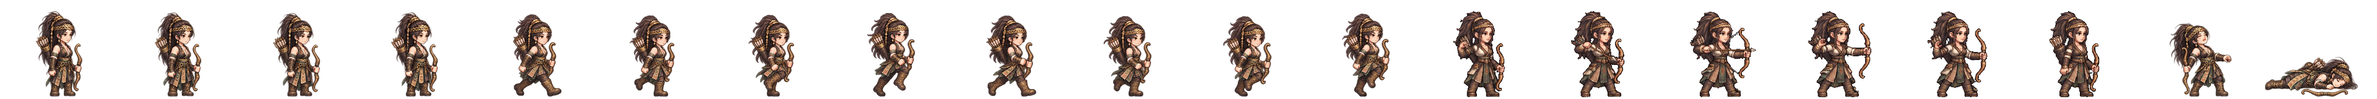
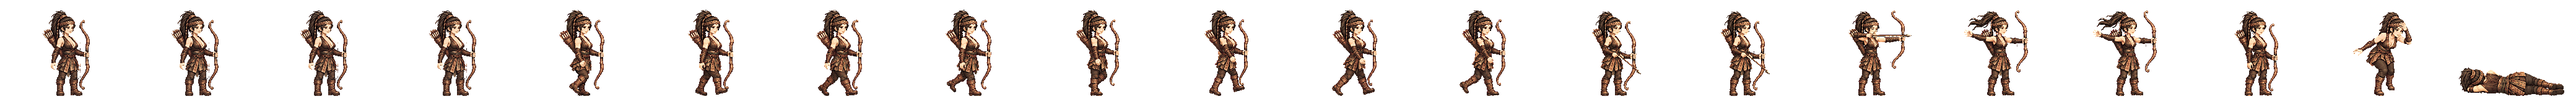
백제 매나 새 전투 띠를 게임에 넣음(서기·걷기·활 쏘기 네 칸·쓰러짐·머리띠 매만지기)
띠 검사 합격 · 활 끝 칸 키 137 ↔ 서기 138 · 당김 칸 시위가 거의 안 보이는 흠

Claude-Session: https://claude.ai/code/session_01TRiuN7s6aDfSnaHxrkctmU

Changed region(s): [[0.2188, 0.125, 1.0, 1.0], [0.0, 0.125, 0.1875, 0.9688]]

diff --git a/src/realm/data/spritePx.ts b/src/realm/data/spritePx.ts
@@ -1,3 +1,3 @@
 /** public/realm/anim-px/manifest.json 의 사본 — tools/sprite-normalize.mjs 가 만든다 (손으로 고치지 말 것). 칸 [가로, 세로] · feet = 발 줄(칸 위에서 y) · bodyPx = 서 있는 몸 키 */
 import { expandManifest } from './sprite-manifest.ts'
-export const SPRITE_PX: Readonly<Record<string, { readonly cell: readonly [number, number]; readonly feet: number; readonly bodyPx: number; readonly kind: 'general' | 'soldier' | 'folk' | 'crowd'; readonly cells: number }>> = expandManifest<{ readonly cell: readonly [number, number]; readonly feet: number; readonly bodyPx: number; readonly kind: 'general' | 'soldier' | 'folk' | 'crowd'; readonly cells: number }>([{"cell":[166,128],"feet":126,"bodyPx":124,"kind":"soldier","cells":20},{"cell":[116,128],"feet":126,"bodyPx":117,"kind":"soldier","cells":20},{"cell":[127,128],"feet":126,"bodyPx":116,"kind":"soldier","cells":20},{"cell":[269,128],"feet":126,"bodyPx":126,"kind":"soldier","cells":20},{"cell":[503,128],"feet":126,"bodyPx":127,"kind":"soldier","cells":20},{"cell":[614,128],"feet":126,"bodyPx":126,"kind":"soldier","cells":20},{"cell":[200,160],"feet":156,"bodyPx":138,"kind":"general","cells":20},{"cell":[208,160],"feet":155,"bodyPx":138,"kind":"general","cells":20},{"cell":[208,160],"feet":154,"bodyPx":138,"kind":"general","cells":20},{"cell":[304,160],"feet":155,"bodyPx":135,"kind":"general","cells":20},{"cell":[224,160],"feet":156,"bodyPx":139,"kind":"general","cells":20},{"cell":[184,160],"feet":156,"bodyPx":138,"kind":"general","cells":20},{"cell":[208,160],"feet":154,"bodyPx":136,"kind":"general","cells":20},{"cell":[240,160],"feet":156,"bodyPx":138,"kind":"general","cells":20},{"cell":[232,160],"feet":156,"bodyPx":138,"kind":"general","cells":20},{"cell":[208,160],"feet":156,"bodyPx":138,"kind":"general","cells":20},{"cell":[168,160],"feet":156,"bodyPx":138,"kind":"general","cells":20},{"cell":[192,160],"feet":156,"bodyPx":138,"kind":"general","cells":20},{"cell":[168,160],"feet":156,"bodyPx":124,"kind":"general","cells":20},{"cell":[216,160],"feet":156,"bodyPx":130,"kind":"general","cells":20},{"cell":[200,160],"feet":156,"bodyPx":116,"kind":"general","cells":20},{"cell":[200,160],"feet":156,"bodyPx":135,"kind":"general","cells":20},{"cell":[280,160],"feet":156,"bodyPx":138,"kind":"general","cells":20},{"cell":[232,160],"feet":155,"bodyPx":138,"kind":"general","cells":20},{"cell":[232,160],"feet":156,"bodyPx":134,"kind":"general","cells":20},{"cell":[144,160],"feet":156,"bodyPx":70,"kind":"general","cells":20},{"cell":[208,160],"feet":156,"bodyPx":70,"kind":"general","cells":20},{"cell":[192,160],"feet":156,"bodyPx":70,"kind":"general","cells":20},{"cell":[240,160],"feet":155,"bodyPx":138,"kind":"general","cells":20},{"cell":[160,160],"feet":156,"bodyPx":135,"kind":"general","cells":20},{"cell":[192,160],"feet":156,"bodyPx":128,"kind":"general","cells":20},{"cell":[224,160],"feet":155,"bodyPx":138,"kind":"general","cells":20},{"cell":[232,160],"feet":156,"bodyPx":139,"kind":"general","cells":20},{"cell":[216,160],"feet":156,"bodyPx":138,"kind":"general","cells":20},{"cell":[208,160],"feet":156,"bodyPx":134,"kind":"general","cells":20},{"cell":[176,160],"feet":156,"bodyPx":130,"kind":"general","cells":20},{"cell":[248,160],"feet":156,"bodyPx":138,"kind":"general","cells":20},{"cell":[248,160],"feet":155,"bodyPx":138,"kind":"general","cells":20},{"cell":[192,160],"feet":155,"bodyPx":138,"kind":"general","cells":20},{"cell":[192,160],"feet":156,"bodyPx":124,"kind":"general","cells":20},{"cell":[208,160],"feet":154,"bodyPx":131,"kind":"general","cells":20},{"cell":[256,160],"feet":156,"bodyPx":138,"kind":"general","cells":20},{"cell":[232,160],"feet":156,"bodyPx":73,"kind":"general","cells":20},{"cell":[256,160],"feet":155,"bodyPx":138,"kind":"general","cells":20},{"cell":[264,160],"feet":156,"bodyPx":138,"kind":"general","cells":20},{"cell":[224,160],"feet":156,"bodyPx":138,"kind":"general","cells":20},{"cell":[224,160],"feet":156,"bodyPx":128,"kind":"general","cells":20},{"cell":[176,160],"feet":156,"bodyPx":129,"kind":"general","cells":20},{"cell":[208,160],"feet":154,"bodyPx":139,"kind":"general","cells":20},{"cell":[208,160],"feet":156,"bodyPx":132,"kind":"general","cells":20},{"cell":[216,160],"feet":155,"bodyPx":138,"kind":"general","cells":20},{"cell":[184,160],"feet":156,"bodyPx":122,"kind":"general","cells":20},{"cell":[176,160],"feet":156,"bodyPx":138,"kind":"general","cells":20},{"cell":[280,160],"feet":155,"bodyPx":133,"kind":"general","cells":20},{"cell":[176,160],"feet":156,"bodyPx":70,"kind":"general","cells":20},{"cell":[186,128],"feet":126,"bodyPx":127,"kind":"soldier","cells":20},{"cell":[298,128],"feet":126,"bodyPx":126,"kind":"soldier","cells":20},{"cell":[82,128],"feet":126,"bodyPx":114,"kind":"folk","cells":8},{"cell":[134,128],"feet":126,"bodyPx":119,"kind":"soldier","cells":20},{"cell":[380,128],"feet":126,"bodyPx":124,"kind":"soldier","cells":20},{"cell":[114,128],"feet":126,"bodyPx":115,"kind":"soldier","cells":20},{"cell":[122,128],"feet":126,"bodyPx":114,"kind":"soldier","cells":20},{"cell":[254,128],"feet":126,"bodyPx":128,"kind":"soldier","cells":20},{"cell":[438,128],"feet":126,"bodyPx":126,"kind":"soldier","cells":20},{"cell":[88,128],"feet":126,"bodyPx":113,"kind":"folk","cells":8},{"cell":[100,128],"feet":126,"bodyPx":115,"kind":"folk","cells":8},{"cell":[108,128],"feet":126,"bodyPx":115,"kind":"folk","cells":8},{"cell":[63,128],"feet":126,"bodyPx":113,"kind":"folk","cells":8},{"cell":[69,96],"feet":96,"bodyPx":96,"kind":"crowd","cells":1},{"cell":[54,96],"feet":96,"bodyPx":96,"kind":"crowd","cells":1},{"cell":[47,96],"feet":96,"bodyPx":96,"kind":"crowd","cells":1},{"cell":[49,96],"feet":96,"bodyPx":96,"kind":"crowd","cells":1},{"cell":[57,96],"feet":96,"bodyPx":96,"kind":"crowd","cells":1},{"cell":[55,96],"feet":96,"bodyPx":96,"kind":"crowd","cells":1},{"cell":[45,96],"feet":96,"bodyPx":96,"kind":"crowd","cells":1},{"cell":[53,96],"feet":96,"bodyPx":96,"kind":"crowd","cells":1},{"cell":[64,96],"feet":96,"bodyPx":96,"kind":"crowd","cells":1},{"cell":[184,160],"feet":156,"bodyPx":124,"kind":"general","cells":20},{"cell":[184,160],"feet":156,"bodyPx":134,"kind":"general","cells":20},{"cell":[224,160],"feet":156,"bodyPx":133,"kind":"general","cells":20},{"cell":[192,160],"feet":156,"bodyPx":135,"kind":"general","cells":20},{"cell":[184,160],"feet":156,"bodyPx":137,"kind":"general","cells":20},{"cell":[216,160],"feet":156,"bodyPx":134,"kind":"general","cells":20},{"cell":[216,160],"feet":156,"bodyPx":132,"kind":"general","cells":20},{"cell":[288,160],"feet":156,"bodyPx":138,"kind":"general","cells":20},{"cell":[192,160],"feet":156,"bodyPx":118,"kind":"general","cells":20},{"cell":[192,160],"feet":156,"bodyPx":134,"kind":"general","cells":20},{"cell":[192,160],"feet":157,"bodyPx":139,"kind":"general","cells":20},{"cell":[184,160],"feet":156,"bodyPx":128,"kind":"general","cells":20},{"cell":[240,160],"feet":156,"bodyPx":128,"kind":"general","cells":20},{"cell":[184,160],"feet":156,"bodyPx":132,"kind":"general","cells":20},{"cell":[208,160],"feet":156,"bodyPx":123,"kind":"general","cells":20},{"cell":[208,160],"feet":154,"bodyPx":137,"kind":"general","cells":20},{"cell":[176,160],"feet":156,"bodyPx":116,"kind":"general","cells":20},{"cell":[272,160],"feet":156,"bodyPx":138,"kind":"general","cells":20},{"cell":[176,160],"feet":156,"bodyPx":122,"kind":"general","cells":20},{"cell":[232,160],"feet":156,"bodyPx":127,"kind":"general","cells":20},{"cell":[176,160],"feet":156,"bodyPx":137,"kind":"general","cells":20},{"cell":[184,160],"feet":156,"bodyPx":133,"kind":"general","cells":20}],[["axe",0],["bandit-chief",1],["bandit-club",2],["boat",3],["bow",4],["crossbow",5],["gen-adogan",6],["gen-alpyeong",7],["gen-ara",8],["gen-areum",8],["gen-aryeong",9],["gen-bakdal",6],["gen-baram",10],["gen-bdanbi",11],["gen-beom",12],["gen-beombal",11],["gen-beomi",13],["gen-bira",14],["gen-biryu",15],["gen-budeul",16],["gen-byeol",17],["gen-daemusin",18],["gen-daeso",19],["gen-dallae2",11],["gen-dalli",11],["gen-damul",20],["gen-danbi",15],["gen-dangung",17],["gen-darae",21],["gen-dokmudeom",7],["gen-duman",22],["gen-eomni",23],["gen-eureum",24],["gen-g-bow",25],["gen-g-spear",26],["gen-g-sword",27],["gen-gaennae",6],["gen-gamsil",28],["gen-gaon",29],["gen-geota",15],["gen-geumbawi",11],["gen-geumha",30],["gen-goeun",15],["gen-gom",31],["gen-gomok",15],["gen-gureum",28],["gen-guryema",17],["gen-gwaeyu",14],["gen-haebi",8],["gen-haedal",6],["gen-haesol",32],["gen-halla",7],["gen-heo",8],["gen-hneoul",11],["gen-hogong",33],["gen-hojin",15],["gen-horselord",34],["gen-hwalmi",35],["gen-hyeokgeose",17],["gen-hyeopbo",6],["gen-irang",15],["gen-jibaekho",36],["gen-jinha",37],["gen-jita",38],["gen-jumong",39],["gen-keundol",7],["gen-maehwa",40],["gen-maenun",17],["gen-malgalgi",41],["gen-mari",13],["gen-maro",36],["gen-maryeo",15],["gen-mdallae",32],["gen-mir",6],["gen-mount",42],["gen-mulbeom",43],["gen-mulsae",33],["gen-musoe",33],["gen-noeul",8],["gen-nuri",44],["gen-ocheongan",45],["gen-odi",8],["gen-odogan",6],["gen-ogan",17],["gen-oi",46],["gen-olddaeso",24],["gen-onjo",47],["gen-pidogan",15],["gen-sagong",48],["gen-sdallae",6],["gen-sincheongan",33],["gen-singwigan",33],["gen-sinneoul",8],["gen-sobeol",23],["gen-soebi",6],["gen-soebo",49],["gen-soenun",36],["gen-sogeumbi",50],["gen-songbi",45],["gen-songyang",51],["gen-sori",52],["gen-soseono",53],["gen-suro",17],["gen-tahae",6],["gen-tneoul",8],["gen-w-bow",25],["gen-w-spear",54],["gen-waechief",15],["gen-wan",33],["gen-yeodogan",15],["gen-yucheongan",15],["gen-yusugan",36],["horse",55],["marine",56],["migrant",57],["militia",58],["pike",59],["pirate-captain",60],["pirate-sword",61],["shield",62],["spear",63],["villager-builder",64],["villager-farmer",65],["villager-porter",66],["villager-woman",67],["crowd-b1",68],["crowd-b2",69],["crowd-b3",70],["crowd-b4",71],["crowd-b5",72],["crowd-b6",73],["crowd-f1",68],["crowd-f2",73],["crowd-f3",74],["crowd-f4",75],["crowd-f5",68],["crowd-f6",76],["gen-dalbit",15],["gen-base-g-07-drunk-warrior",17],["gen-base-g-40-anya-adan",15],["gen-base-w-13-young-archer",8],["gen-base-g-03-sea-trader",13],["gen-base-w-10-pirate-captain",48],["gen-base-w-64-miri-dallae",48],["gen-base-g-41-goja-bau",13],["gen-base-g-42-dokro-garam",44],["gen-base-g-09-farmer-conscript",33],["gen-base-w-02-goguryeo-lady",33],["gen-base-w-17-mahan-pearl-diver",8],["gen-base-g-17-saro-isageum",49],["gen-base-g-18-daegaya-king",77],["gen-base-g-35-dabeol-dalgu",15],["gen-base-g-19-sabeol-veteran",33],["gen-base-w-23-usisan-whale-queen",8],["gen-base-g-36-gammun-gamdol",45],["gen-base-g-20-samul-sea-lord",41],["gen-base-g-37-eumjeup-jeup",11],["gen-base-g-38-chopal-palmae",17],["gen-base-w-75-daegaya-soemoe",17],["gen-base-g-45-dabeol-deulgae",11],["gen-base-g-04-jinhan-giant",15],["gen-base-g-08-veteran",15],["gen-base-w-18-jinhan-salt-widow",15],["gen-base-w-12-court-dancer",78],["gen-base-w-83-gyeonji-beodeul",79],["gen-base-w-05-baekje-queen",80],["gen-base-w-21-baekje-court-dancer",11],["gen-base-g-01-master-smith",81],["gen-base-g-93-jomun-solgae",35],["gen-base-g-57-bihwa-neup",13],["gen-base-w-72-eumjeup-beol",8],["gen-base-w-102-garak-dana",48],["gen-base-g-68-baekje-onnuri",15],["gen-base-w-27-mokji-jinha",6],["gen-base-g-22-ungcheon-gomnae",6],["gen-base-g-23-sangdang-soedal",15],["gen-base-g-24-wansan-onsan",6],["gen-base-g-25-balla-keunmoe",33],["gen-base-g-61-heomcheuk-bawi",33],["gen-base-g-88-wander-soeul",45],["gen-base-w-14-feast-spy",6],["gen-base-g-12-silla-youth",82],["gen-base-w-08-mahan-warrior",8],["gen-base-g-62-beonye-hanul",13],["gen-base-g-63-heomcheuk-beogeum",15],["gen-base-g-84-wander-seoneul",15],["gen-base-w-50-siljik-mulga",33],["gen-base-g-46-uga-nureongso",33],["gen-base-w-80-usan-gangchi",13],["gen-base-g-47-guga-sanyanggae",33],["gen-base-w-76-gampyeong-baetsagong",8],["gen-base-g-05-mahan-chieftain",83],["gen-base-g-58-usan-uhae",15],["gen-base-g-27-maek-maekdol",15],["gen-base-w-53-hwanna-gabi",16],["gen-base-w-29-golpo-janmul",36],["gen-base-g-53-baekje-haeru",6],["gen-base-w-71-yeonna-neoul",13],["gen-base-w-79-yangmaek-solmae",33],["gen-base-w-34-chopal-deulme",8],["gen-base-g-44-maga-malgup",84],["gen-base-w-31-dabeol-dalbit",48],["gen-base-g-51-biryuna-mulgyeol",45],["gen-base-g-48-gwanna-musoe",15],["gen-base-g-32-uga-sodu",14],["gen-base-g-49-goguryeo-sona",85],["gen-base-g-30-gwanna-soemoe",45],["gen-base-g-52-tamna-oreum",11],["gen-base-g-29-yeonna-myeongsol",39],["gen-base-w-56-dongokjeo-sogeum",86],["gen-base-g-54-mokji-mahan",14],["gen-base-g-33-jeoga-metdol",17],["gen-base-w-36-baekje-maena",17],["gen-base-w-38-sangdang-bulmae",6],["gen-base-w-39-gosaburi-galmae",87],["gen-base-w-40-mujin-munui",49],["gen-base-w-41-hwanna-beodeul",88],["gen-base-w-43-uga-nuri",41],["gen-base-w-45-tamna-oreumbi",11],["gen-base-g-60-golbeol-golgae",11],["gen-base-g-61-apdok-ap",33],["gen-base-g-62-gammun-gamnamu",6],["gen-base-g-63-chopal-yeoul",36],["gen-base-g-64-michuhol-sogeumkkun",13],["gen-base-g-65-sangdang-soemangchi",45],["gen-base-g-66-geonma-malbalgup",89],["gen-base-g-67-gosaburi-buri",90],["gen-base-g-68-mujin-bitgoeul",11],["gen-base-g-69-goryong-yong",45],["gen-base-g-70-siljik-pado",13],["gen-base-w-81-byeokjin-byeolbit",14],["gen-base-w-46-geonma-maru",36],["gen-base-w-48-mujin-mudeung",13],["gen-base-g-26-gampyeong-gaetbeol",14],["gen-base-g-60-eupcha-hangyeol",91],["gen-base-g-15-shaman-man",33],["gen-base-g-85-wander-ure",36],["gen-base-g-43-hwanna-amnok",15],["gen-base-g-50-bullae-gwaha",80],["gen-base-g-55-saro-bakdal",15],["gen-base-g-56-haseulla-gwahama",6],["gen-base-w-06-buyeo-huntress",92],["gen-base-w-22-dongye-tiger-huntress",8],["gen-base-w-25-bihwa-priestess",33],["gen-base-w-24-apdok-queen",11],["gen-base-w-61-iseo-sinae",15],["gen-base-w-26-iseo-tomboy-general",8],["gen-base-g-59-yangmaek-maekson",93],["gen-aw1-haebi",45],["gen-aw1-soseono",94],["gen-aw1-gamsil",11],["gen-aw1-mir",52],["gen-aw1-dangung",6],["gen-aw1-ara",45],["gen-aw1-jumong",95],["gen-aw1-onjo",96],["gen-aw1-base-w-83-gyeonji-beodeul",17],["gen-aw1-heo",44],["gen-aw1-base-g-38-chopal-palmae",6],["gen-aw1-base-w-25-bihwa-priestess",78],["gen-aw1-sori",16],["gen-aw1-gomok",6],["gen-aw1-irang",17],["gen-aw1-budeul",16],["gen-aw1-gom",13],["gen-aw1-sdallae",6],["gen-aw1-base-w-13-young-archer",6],["gen-aw1-base-w-36-baekje-maena",97],["gen-aw1-base-g-09-farmer-conscript",44],["gen-aw1-base-w-02-goguryeo-lady",98],["gen-aw1-haedal",11],["gen-aw1-hogong",6],["gen-aw1-maehwa",52],["gen-aw1-base-w-06-buyeo-huntress",14],["gen-aw1-base-w-08-mahan-warrior",45],["gen-aw1-base-w-29-golpo-janmul",45],["gen-aw1-base-w-31-dabeol-dalbit",17],["gen-aw1-base-w-38-sangdang-bulmae",16],["gen-aw1-bira",33],["gen-aw1-base-w-53-hwanna-gabi",16],["gen-aw1-base-w-56-dongokjeo-sogeum",52],["gen-aw1-base-w-72-eumjeup-beol",17],["gen-aw1-bdanbi",16],["gen-aw1-beom",11],["gen-aw1-beombal",11],["gen-aw1-byeol",17],["gen-aw1-dalli",52],["gen-aw1-malgalgi",36],["gen-aw1-sincheongan",33]])
+export const SPRITE_PX: Readonly<Record<string, { readonly cell: readonly [number, number]; readonly feet: number; readonly bodyPx: number; readonly kind: 'general' | 'soldier' | 'folk' | 'crowd'; readonly cells: number }>> = expandManifest<{ readonly cell: readonly [number, number]; readonly feet: number; readonly bodyPx: number; readonly kind: 'general' | 'soldier' | 'folk' | 'crowd'; readonly cells: number }>([{"cell":[166,128],"feet":126,"bodyPx":124,"kind":"soldier","cells":20},{"cell":[116,128],"feet":126,"bodyPx":117,"kind":"soldier","cells":20},{"cell":[127,128],"feet":126,"bodyPx":116,"kind":"soldier","cells":20},{"cell":[269,128],"feet":126,"bodyPx":126,"kind":"soldier","cells":20},{"cell":[503,128],"feet":126,"bodyPx":127,"kind":"soldier","cells":20},{"cell":[614,128],"feet":126,"bodyPx":126,"kind":"soldier","cells":20},{"cell":[200,160],"feet":156,"bodyPx":138,"kind":"general","cells":20},{"cell":[208,160],"feet":155,"bodyPx":138,"kind":"general","cells":20},{"cell":[208,160],"feet":154,"bodyPx":138,"kind":"general","cells":20},{"cell":[304,160],"feet":155,"bodyPx":135,"kind":"general","cells":20},{"cell":[224,160],"feet":156,"bodyPx":139,"kind":"general","cells":20},{"cell":[184,160],"feet":156,"bodyPx":138,"kind":"general","cells":20},{"cell":[208,160],"feet":154,"bodyPx":136,"kind":"general","cells":20},{"cell":[240,160],"feet":156,"bodyPx":138,"kind":"general","cells":20},{"cell":[232,160],"feet":156,"bodyPx":138,"kind":"general","cells":20},{"cell":[208,160],"feet":156,"bodyPx":138,"kind":"general","cells":20},{"cell":[168,160],"feet":156,"bodyPx":138,"kind":"general","cells":20},{"cell":[192,160],"feet":156,"bodyPx":138,"kind":"general","cells":20},{"cell":[168,160],"feet":156,"bodyPx":124,"kind":"general","cells":20},{"cell":[216,160],"feet":156,"bodyPx":130,"kind":"general","cells":20},{"cell":[200,160],"feet":156,"bodyPx":116,"kind":"general","cells":20},{"cell":[200,160],"feet":156,"bodyPx":135,"kind":"general","cells":20},{"cell":[280,160],"feet":156,"bodyPx":138,"kind":"general","cells":20},{"cell":[232,160],"feet":155,"bodyPx":138,"kind":"general","cells":20},{"cell":[232,160],"feet":156,"bodyPx":134,"kind":"general","cells":20},{"cell":[144,160],"feet":156,"bodyPx":70,"kind":"general","cells":20},{"cell":[208,160],"feet":156,"bodyPx":70,"kind":"general","cells":20},{"cell":[192,160],"feet":156,"bodyPx":70,"kind":"general","cells":20},{"cell":[240,160],"feet":155,"bodyPx":138,"kind":"general","cells":20},{"cell":[160,160],"feet":156,"bodyPx":135,"kind":"general","cells":20},{"cell":[192,160],"feet":156,"bodyPx":128,"kind":"general","cells":20},{"cell":[224,160],"feet":155,"bodyPx":138,"kind":"general","cells":20},{"cell":[232,160],"feet":156,"bodyPx":139,"kind":"general","cells":20},{"cell":[216,160],"feet":156,"bodyPx":138,"kind":"general","cells":20},{"cell":[208,160],"feet":156,"bodyPx":134,"kind":"general","cells":20},{"cell":[176,160],"feet":156,"bodyPx":130,"kind":"general","cells":20},{"cell":[248,160],"feet":156,"bodyPx":138,"kind":"general","cells":20},{"cell":[248,160],"feet":155,"bodyPx":138,"kind":"general","cells":20},{"cell":[192,160],"feet":155,"bodyPx":138,"kind":"general","cells":20},{"cell":[192,160],"feet":156,"bodyPx":124,"kind":"general","cells":20},{"cell":[208,160],"feet":154,"bodyPx":131,"kind":"general","cells":20},{"cell":[256,160],"feet":156,"bodyPx":138,"kind":"general","cells":20},{"cell":[232,160],"feet":156,"bodyPx":73,"kind":"general","cells":20},{"cell":[256,160],"feet":155,"bodyPx":138,"kind":"general","cells":20},{"cell":[264,160],"feet":156,"bodyPx":138,"kind":"general","cells":20},{"cell":[224,160],"feet":156,"bodyPx":138,"kind":"general","cells":20},{"cell":[224,160],"feet":156,"bodyPx":128,"kind":"general","cells":20},{"cell":[176,160],"feet":156,"bodyPx":129,"kind":"general","cells":20},{"cell":[208,160],"feet":154,"bodyPx":139,"kind":"general","cells":20},{"cell":[208,160],"feet":156,"bodyPx":132,"kind":"general","cells":20},{"cell":[216,160],"feet":155,"bodyPx":138,"kind":"general","cells":20},{"cell":[184,160],"feet":156,"bodyPx":122,"kind":"general","cells":20},{"cell":[176,160],"feet":156,"bodyPx":138,"kind":"general","cells":20},{"cell":[280,160],"feet":155,"bodyPx":133,"kind":"general","cells":20},{"cell":[176,160],"feet":156,"bodyPx":70,"kind":"general","cells":20},{"cell":[186,128],"feet":126,"bodyPx":127,"kind":"soldier","cells":20},{"cell":[298,128],"feet":126,"bodyPx":126,"kind":"soldier","cells":20},{"cell":[82,128],"feet":126,"bodyPx":114,"kind":"folk","cells":8},{"cell":[134,128],"feet":126,"bodyPx":119,"kind":"soldier","cells":20},{"cell":[380,128],"feet":126,"bodyPx":124,"kind":"soldier","cells":20},{"cell":[114,128],"feet":126,"bodyPx":115,"kind":"soldier","cells":20},{"cell":[122,128],"feet":126,"bodyPx":114,"kind":"soldier","cells":20},{"cell":[254,128],"feet":126,"bodyPx":128,"kind":"soldier","cells":20},{"cell":[438,128],"feet":126,"bodyPx":126,"kind":"soldier","cells":20},{"cell":[88,128],"feet":126,"bodyPx":113,"kind":"folk","cells":8},{"cell":[100,128],"feet":126,"bodyPx":115,"kind":"folk","cells":8},{"cell":[108,128],"feet":126,"bodyPx":115,"kind":"folk","cells":8},{"cell":[63,128],"feet":126,"bodyPx":113,"kind":"folk","cells":8},{"cell":[69,96],"feet":96,"bodyPx":96,"kind":"crowd","cells":1},{"cell":[54,96],"feet":96,"bodyPx":96,"kind":"crowd","cells":1},{"cell":[47,96],"feet":96,"bodyPx":96,"kind":"crowd","cells":1},{"cell":[49,96],"feet":96,"bodyPx":96,"kind":"crowd","cells":1},{"cell":[57,96],"feet":96,"bodyPx":96,"kind":"crowd","cells":1},{"cell":[55,96],"feet":96,"bodyPx":96,"kind":"crowd","cells":1},{"cell":[45,96],"feet":96,"bodyPx":96,"kind":"crowd","cells":1},{"cell":[53,96],"feet":96,"bodyPx":96,"kind":"crowd","cells":1},{"cell":[64,96],"feet":96,"bodyPx":96,"kind":"crowd","cells":1},{"cell":[184,160],"feet":156,"bodyPx":124,"kind":"general","cells":20},{"cell":[184,160],"feet":156,"bodyPx":134,"kind":"general","cells":20},{"cell":[224,160],"feet":156,"bodyPx":133,"kind":"general","cells":20},{"cell":[192,160],"feet":156,"bodyPx":135,"kind":"general","cells":20},{"cell":[184,160],"feet":156,"bodyPx":137,"kind":"general","cells":20},{"cell":[216,160],"feet":156,"bodyPx":134,"kind":"general","cells":20},{"cell":[216,160],"feet":156,"bodyPx":132,"kind":"general","cells":20},{"cell":[288,160],"feet":156,"bodyPx":138,"kind":"general","cells":20},{"cell":[192,160],"feet":156,"bodyPx":118,"kind":"general","cells":20},{"cell":[192,160],"feet":156,"bodyPx":134,"kind":"general","cells":20},{"cell":[192,160],"feet":157,"bodyPx":139,"kind":"general","cells":20},{"cell":[184,160],"feet":156,"bodyPx":128,"kind":"general","cells":20},{"cell":[240,160],"feet":156,"bodyPx":128,"kind":"general","cells":20},{"cell":[184,160],"feet":156,"bodyPx":132,"kind":"general","cells":20},{"cell":[208,160],"feet":156,"bodyPx":123,"kind":"general","cells":20},{"cell":[208,160],"feet":154,"bodyPx":137,"kind":"general","cells":20},{"cell":[176,160],"feet":156,"bodyPx":116,"kind":"general","cells":20},{"cell":[272,160],"feet":156,"bodyPx":138,"kind":"general","cells":20},{"cell":[176,160],"feet":156,"bodyPx":122,"kind":"general","cells":20},{"cell":[232,160],"feet":156,"bodyPx":127,"kind":"general","cells":20},{"cell":[176,160],"feet":156,"bodyPx":137,"kind":"general","cells":20},{"cell":[184,160],"feet":156,"bodyPx":133,"kind":"general","cells":20}],[["axe",0],["bandit-chief",1],["bandit-club",2],["boat",3],["bow",4],["crossbow",5],["gen-adogan",6],["gen-alpyeong",7],["gen-ara",8],["gen-areum",8],["gen-aryeong",9],["gen-bakdal",6],["gen-baram",10],["gen-bdanbi",11],["gen-beom",12],["gen-beombal",11],["gen-beomi",13],["gen-bira",14],["gen-biryu",15],["gen-budeul",16],["gen-byeol",17],["gen-daemusin",18],["gen-daeso",19],["gen-dallae2",11],["gen-dalli",11],["gen-damul",20],["gen-danbi",15],["gen-dangung",17],["gen-darae",21],["gen-dokmudeom",7],["gen-duman",22],["gen-eomni",23],["gen-eureum",24],["gen-g-bow",25],["gen-g-spear",26],["gen-g-sword",27],["gen-gaennae",6],["gen-gamsil",28],["gen-gaon",29],["gen-geota",15],["gen-geumbawi",11],["gen-geumha",30],["gen-goeun",15],["gen-gom",31],["gen-gomok",15],["gen-gureum",28],["gen-guryema",17],["gen-gwaeyu",14],["gen-haebi",8],["gen-haedal",6],["gen-haesol",32],["gen-halla",7],["gen-heo",8],["gen-hneoul",11],["gen-hogong",33],["gen-hojin",15],["gen-horselord",34],["gen-hwalmi",35],["gen-hyeokgeose",17],["gen-hyeopbo",6],["gen-irang",15],["gen-jibaekho",36],["gen-jinha",37],["gen-jita",38],["gen-jumong",39],["gen-keundol",7],["gen-maehwa",40],["gen-maenun",17],["gen-malgalgi",41],["gen-mari",13],["gen-maro",36],["gen-maryeo",15],["gen-mdallae",32],["gen-mir",6],["gen-mount",42],["gen-mulbeom",43],["gen-mulsae",33],["gen-musoe",33],["gen-noeul",8],["gen-nuri",44],["gen-ocheongan",45],["gen-odi",8],["gen-odogan",6],["gen-ogan",17],["gen-oi",46],["gen-olddaeso",24],["gen-onjo",47],["gen-pidogan",15],["gen-sagong",48],["gen-sdallae",6],["gen-sincheongan",33],["gen-singwigan",33],["gen-sinneoul",8],["gen-sobeol",23],["gen-soebi",6],["gen-soebo",49],["gen-soenun",36],["gen-sogeumbi",50],["gen-songbi",45],["gen-songyang",51],["gen-sori",52],["gen-soseono",53],["gen-suro",17],["gen-tahae",6],["gen-tneoul",8],["gen-w-bow",25],["gen-w-spear",54],["gen-waechief",15],["gen-wan",33],["gen-yeodogan",15],["gen-yucheongan",15],["gen-yusugan",36],["horse",55],["marine",56],["migrant",57],["militia",58],["pike",59],["pirate-captain",60],["pirate-sword",61],["shield",62],["spear",63],["villager-builder",64],["villager-farmer",65],["villager-porter",66],["villager-woman",67],["crowd-b1",68],["crowd-b2",69],["crowd-b3",70],["crowd-b4",71],["crowd-b5",72],["crowd-b6",73],["crowd-f1",68],["crowd-f2",73],["crowd-f3",74],["crowd-f4",75],["crowd-f5",68],["crowd-f6",76],["gen-dalbit",15],["gen-base-g-07-drunk-warrior",17],["gen-base-g-40-anya-adan",15],["gen-base-w-13-young-archer",8],["gen-base-g-03-sea-trader",13],["gen-base-w-10-pirate-captain",48],["gen-base-w-64-miri-dallae",48],["gen-base-g-41-goja-bau",13],["gen-base-g-42-dokro-garam",44],["gen-base-g-09-farmer-conscript",33],["gen-base-w-02-goguryeo-lady",33],["gen-base-w-17-mahan-pearl-diver",8],["gen-base-g-17-saro-isageum",49],["gen-base-g-18-daegaya-king",77],["gen-base-g-35-dabeol-dalgu",15],["gen-base-g-19-sabeol-veteran",33],["gen-base-w-23-usisan-whale-queen",8],["gen-base-g-36-gammun-gamdol",45],["gen-base-g-20-samul-sea-lord",41],["gen-base-g-37-eumjeup-jeup",11],["gen-base-g-38-chopal-palmae",17],["gen-base-w-75-daegaya-soemoe",17],["gen-base-g-45-dabeol-deulgae",11],["gen-base-g-04-jinhan-giant",15],["gen-base-g-08-veteran",15],["gen-base-w-18-jinhan-salt-widow",15],["gen-base-w-12-court-dancer",78],["gen-base-w-83-gyeonji-beodeul",79],["gen-base-w-05-baekje-queen",80],["gen-base-w-21-baekje-court-dancer",11],["gen-base-g-01-master-smith",81],["gen-base-g-93-jomun-solgae",35],["gen-base-g-57-bihwa-neup",13],["gen-base-w-72-eumjeup-beol",8],["gen-base-w-102-garak-dana",48],["gen-base-g-68-baekje-onnuri",15],["gen-base-w-27-mokji-jinha",6],["gen-base-g-22-ungcheon-gomnae",6],["gen-base-g-23-sangdang-soedal",15],["gen-base-g-24-wansan-onsan",6],["gen-base-g-25-balla-keunmoe",33],["gen-base-g-61-heomcheuk-bawi",33],["gen-base-g-88-wander-soeul",45],["gen-base-w-14-feast-spy",6],["gen-base-g-12-silla-youth",82],["gen-base-w-08-mahan-warrior",8],["gen-base-g-62-beonye-hanul",13],["gen-base-g-63-heomcheuk-beogeum",15],["gen-base-g-84-wander-seoneul",15],["gen-base-w-50-siljik-mulga",33],["gen-base-g-46-uga-nureongso",33],["gen-base-w-80-usan-gangchi",13],["gen-base-g-47-guga-sanyanggae",33],["gen-base-w-76-gampyeong-baetsagong",8],["gen-base-g-05-mahan-chieftain",83],["gen-base-g-58-usan-uhae",15],["gen-base-g-27-maek-maekdol",15],["gen-base-w-53-hwanna-gabi",16],["gen-base-w-29-golpo-janmul",36],["gen-base-g-53-baekje-haeru",6],["gen-base-w-71-yeonna-neoul",13],["gen-base-w-79-yangmaek-solmae",33],["gen-base-w-34-chopal-deulme",8],["gen-base-g-44-maga-malgup",84],["gen-base-w-31-dabeol-dalbit",48],["gen-base-g-51-biryuna-mulgyeol",45],["gen-base-g-48-gwanna-musoe",15],["gen-base-g-32-uga-sodu",14],["gen-base-g-49-goguryeo-sona",85],["gen-base-g-30-gwanna-soemoe",45],["gen-base-g-52-tamna-oreum",11],["gen-base-g-29-yeonna-myeongsol",39],["gen-base-w-56-dongokjeo-sogeum",86],["gen-base-g-54-mokji-mahan",14],["gen-base-g-33-jeoga-metdol",17],["gen-base-w-36-baekje-maena",8],["gen-base-w-38-sangdang-bulmae",6],["gen-base-w-39-gosaburi-galmae",87],["gen-base-w-40-mujin-munui",49],["gen-base-w-41-hwanna-beodeul",88],["gen-base-w-43-uga-nuri",41],["gen-base-w-45-tamna-oreumbi",11],["gen-base-g-60-golbeol-golgae",11],["gen-base-g-61-apdok-ap",33],["gen-base-g-62-gammun-gamnamu",6],["gen-base-g-63-chopal-yeoul",36],["gen-base-g-64-michuhol-sogeumkkun",13],["gen-base-g-65-sangdang-soemangchi",45],["gen-base-g-66-geonma-malbalgup",89],["gen-base-g-67-gosaburi-buri",90],["gen-base-g-68-mujin-bitgoeul",11],["gen-base-g-69-goryong-yong",45],["gen-base-g-70-siljik-pado",13],["gen-base-w-81-byeokjin-byeolbit",14],["gen-base-w-46-geonma-maru",36],["gen-base-w-48-mujin-mudeung",13],["gen-base-g-26-gampyeong-gaetbeol",14],["gen-base-g-60-eupcha-hangyeol",91],["gen-base-g-15-shaman-man",33],["gen-base-g-85-wander-ure",36],["gen-base-g-43-hwanna-amnok",15],["gen-base-g-50-bullae-gwaha",80],["gen-base-g-55-saro-bakdal",15],["gen-base-g-56-haseulla-gwahama",6],["gen-base-w-06-buyeo-huntress",92],["gen-base-w-22-dongye-tiger-huntress",8],["gen-base-w-25-bihwa-priestess",33],["gen-base-w-24-apdok-queen",11],["gen-base-w-61-iseo-sinae",15],["gen-base-w-26-iseo-tomboy-general",8],["gen-base-g-59-yangmaek-maekson",93],["gen-aw1-haebi",45],["gen-aw1-soseono",94],["gen-aw1-gamsil",11],["gen-aw1-mir",52],["gen-aw1-dangung",6],["gen-aw1-ara",45],["gen-aw1-jumong",95],["gen-aw1-onjo",96],["gen-aw1-base-w-83-gyeonji-beodeul",17],["gen-aw1-heo",44],["gen-aw1-base-g-38-chopal-palmae",6],["gen-aw1-base-w-25-bihwa-priestess",78],["gen-aw1-sori",16],["gen-aw1-gomok",6],["gen-aw1-irang",17],["gen-aw1-budeul",16],["gen-aw1-gom",13],["gen-aw1-sdallae",6],["gen-aw1-base-w-13-young-archer",6],["gen-aw1-base-w-36-baekje-maena",97],["gen-aw1-base-g-09-farmer-conscript",44],["gen-aw1-base-w-02-goguryeo-lady",98],["gen-aw1-haedal",11],["gen-aw1-hogong",6],["gen-aw1-maehwa",52],["gen-aw1-base-w-06-buyeo-huntress",14],["gen-aw1-base-w-08-mahan-warrior",45],["gen-aw1-base-w-29-golpo-janmul",45],["gen-aw1-base-w-31-dabeol-dalbit",17],["gen-aw1-base-w-38-sangdang-bulmae",16],["gen-aw1-bira",33],["gen-aw1-base-w-53-hwanna-gabi",16],["gen-aw1-base-w-56-dongokjeo-sogeum",52],["gen-aw1-base-w-72-eumjeup-beol",17],["gen-aw1-bdanbi",16],["gen-aw1-beom",11],["gen-aw1-beombal",11],["gen-aw1-byeol",17],["gen-aw1-dalli",52],["gen-aw1-malgalgi",36],["gen-aw1-sincheongan",33]])

diff --git a/src/duel/view.ts b/src/duel/view.ts
@@ -100,7 +100,7 @@ const crowdFront = [1, 2, 3, 4, 5, 6].map((i) => img(`realm/duel/crowd/b${i}.png
 const crowdReady = (set: HTMLImageElement[]): boolean => set.every((im) => im.complete && im.naturalWidth > 0)
 const pxMode = cfg.px !== false && params.get('px') !== '0'
 /** 겨루기 전용 옛 띠(duel/sprites) 대신 열전과 같은 도트 띠(anim-px)를 쓰는 장수 — 두 판에서 같은 모습 · 서기 계획·쓰러지는 칸도 같다 (11-23 범 · 매화 · 달빛 · 11-24 해비 · 아룸) */
-const PX_DUEL: ReadonlySet<string> = new Set(['beom', 'maehwa', 'base-w-31-dabeol-dalbit', 'haebi', 'areum', 'base-w-13-young-archer', 'base-w-10-pirate-captain', 'base-w-17-mahan-pearl-diver', 'base-w-06-buyeo-huntress', 'base-w-64-miri-dallae', 'ara', 'base-w-22-dongye-tiger-huntress', 'noeul', 'sagong', 'sinneoul', 'heo', 'base-w-08-mahan-warrior', 'base-w-23-usisan-whale-queen', 'base-w-26-iseo-tomboy-general', 'base-w-72-eumjeup-beol', 'tneoul', 'odi', 'base-w-76-gampyeong-baetsagong', 'base-w-34-chopal-deulme', 'base-w-102-garak-dana'])
+const PX_DUEL: ReadonlySet<string> = new Set(['beom', 'maehwa', 'base-w-31-dabeol-dalbit', 'haebi', 'areum', 'base-w-13-young-archer', 'base-w-10-pirate-captain', 'base-w-17-mahan-pearl-diver', 'base-w-06-buyeo-huntress', 'base-w-64-miri-dallae', 'ara', 'base-w-22-dongye-tiger-huntress', 'noeul', 'sagong', 'sinneoul', 'heo', 'base-w-08-mahan-warrior', 'base-w-23-usisan-whale-queen', 'base-w-26-iseo-tomboy-general', 'base-w-72-eumjeup-beol', 'tneoul', 'odi', 'base-w-76-gampyeong-baetsagong', 'base-w-34-chopal-deulme', 'base-w-102-garak-dana', 'base-w-36-baekje-maena'])
 /** 띠 그림 — 기본은 anim-px(도트 규격) 먼저, 없으면 옛 띠로 (img 의 onerror 가 갈아 끼운다) */
 const strip = (s: string): HTMLImageElement => pxMode
   ? DUEL_ATLASES[s] !== undefined && !PX_DUEL.has(s) ? img(`realm/duel/sprites/gen-${s}.png`, `realm/anim-px/gen-${s}.png`)

diff --git a/src/tune/params.ts b/src/tune/params.ts
@@ -1444,6 +1444,7 @@ export const HAEBI_IDLE = {
     'base-w-76-gampyeong-baetsagong': { cells: 34, base: [0, 1], hold: 2.4, fall: [18, 20, 21, 19], quirk: [22, 23, 24, 25], quirkTimes: [.3, .32, .4, .28], attack: { cells: [26, 27, 28, 29, 30, 31, 32, 33], times: [.09, .08, .11, .05, .15, .07, .08, .12], hit: 4 }, xGeom: { h: 224, root: 92, foot: 216 } },
     'base-w-34-chopal-deulme': { cells: 34, base: [0, 1], hold: 2.4, fall: [18, 20, 21, 19], quirk: [22, 23, 24, 25], quirkTimes: [.3, .32, .4, .28], attack: { cells: [26, 27, 28, 29, 30, 31, 32, 33], times: [.09, .08, .11, .05, .15, .07, .08, .12], hit: 4 }, xGeom: { h: 224, root: 92, foot: 216 } },
     'base-w-102-garak-dana': { cells: 26, base: [0, 1], hold: 2.4, fall: [18, 20, 21, 19], quirk: [22, 23, 24, 25], quirkTimes: [.28, .3, .42, .25] },
+    'base-w-36-baekje-maena': { cells: 26, base: [0, 1], hold: 2.4, fall: [18, 20, 21, 19], quirk: [22, 23, 24, 25], quirkTimes: [.28, .3, .42, .25] },
   },
 } as const
 export const HAEBI_ANIM = {

diff --git a/src/raid/hero-hd.ts b/src/raid/hero-hd.ts
@@ -30,7 +30,6 @@ export const HERO_HD: Readonly<Record<string, string>> = {
   'anim-px/gen-aw1-base-w-38-sangdang-bulmae.png': 'anim-px/gen-aw1-base-w-38-sangdang-bulmae_hd.png',
   'anim-px/gen-aryeong.png': 'anim-px/gen-aryeong_hd.png',
   'anim-px/gen-base-w-38-sangdang-bulmae.png': 'anim-px/gen-base-w-38-sangdang-bulmae_hd.png',
-  'anim-px/gen-base-w-36-baekje-maena.png': 'anim-px/gen-base-w-36-baekje-maena_hd.png',
   'anim-px/gen-base-w-29-golpo-janmul.png': 'anim-px/gen-base-w-29-golpo-janmul_hd.png',
   'anim-px/gen-base-w-27-mokji-jinha.png': 'anim-px/gen-base-w-27-mokji-jinha_hd.png',
   'anim-px/gen-base-w-25-bihwa-priestess.png': 'anim-px/gen-base-w-25-bihwa-priestess_hd.png',

diff --git a/tools/sprite-kit/anim-harness.py b/tools/sprite-kit/anim-harness.py
@@ -56,6 +56,7 @@ HEROES = {
     'odi': dict(strip='gen-odi', atk='thrust', atk8=True, act=True, legacy=(('a', 2), ('a', 3), ('b', 3), ('b', 4))),   # 조문 오디(창 · 가슴 XL)
     'deulme': dict(strip='gen-base-w-34-chopal-deulme', atk='thrust', atk8=True, act=True, legacy=(('a', 2), ('a', 3), ('b', 3), ('b', 4))),   # 초팔 들메(창 · 우람한 뼈대 · 가슴 L)
     'dana': dict(strip='gen-base-w-102-garak-dana', atk='bow', atk8=False),   # 가락 다나(활 · 가슴 XL)
+    'maena': dict(strip='gen-base-w-36-baekje-maena', atk='bow', atk8=False),   # 백제 매나(활 · 가슴 L)
     'haebi': dict(strip='gen-haebi', atk='chop', atk8=True, act=True),   # act = 공격 여덟 칸이 넓은 동작 칸(240×224 · 뿌리 92 · 발 줄 216)
     'areum': dict(strip='gen-areum', atk='slam', atk8=True, act=True, lock='none'),   # 받은 그림 그대로(얼굴을 떠다 붙이지 않는다 — 11-24: 뭉친 얼굴이 여덟 칸에 퍼졌다) · 옛 lock='face': 메가 머리 뒤로 지나간다 — 머리 상자는 메를 자르고(「포스터」), 윗몸을 통째로 묶으면 떠다닌다(11-24 형) → 얼굴 안쪽만 묶는다
 }
